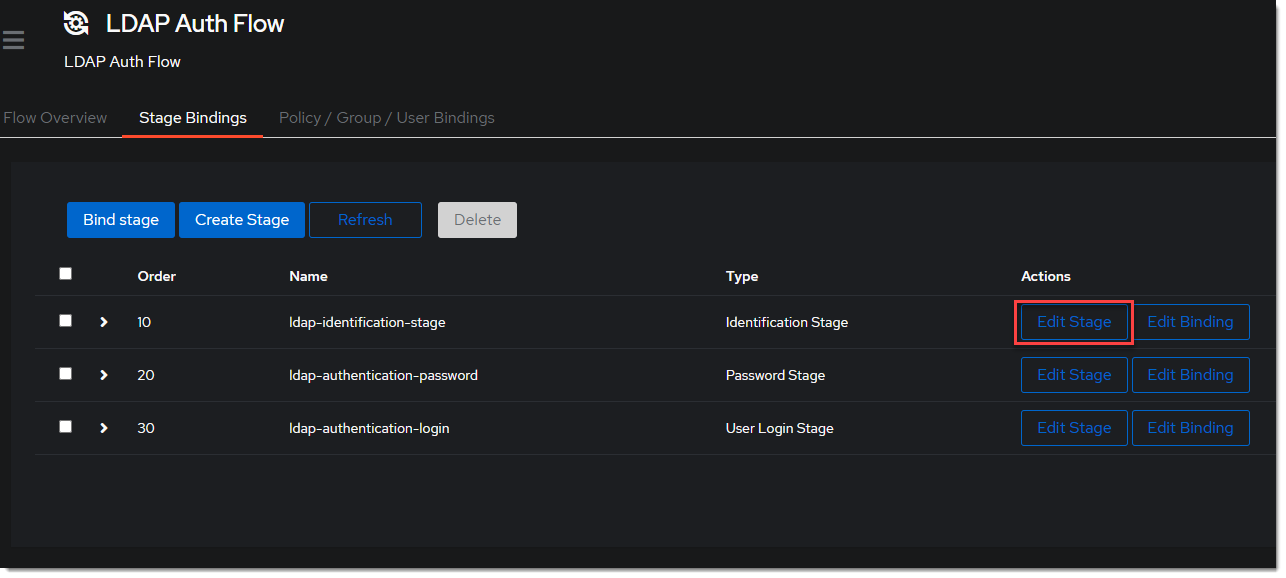
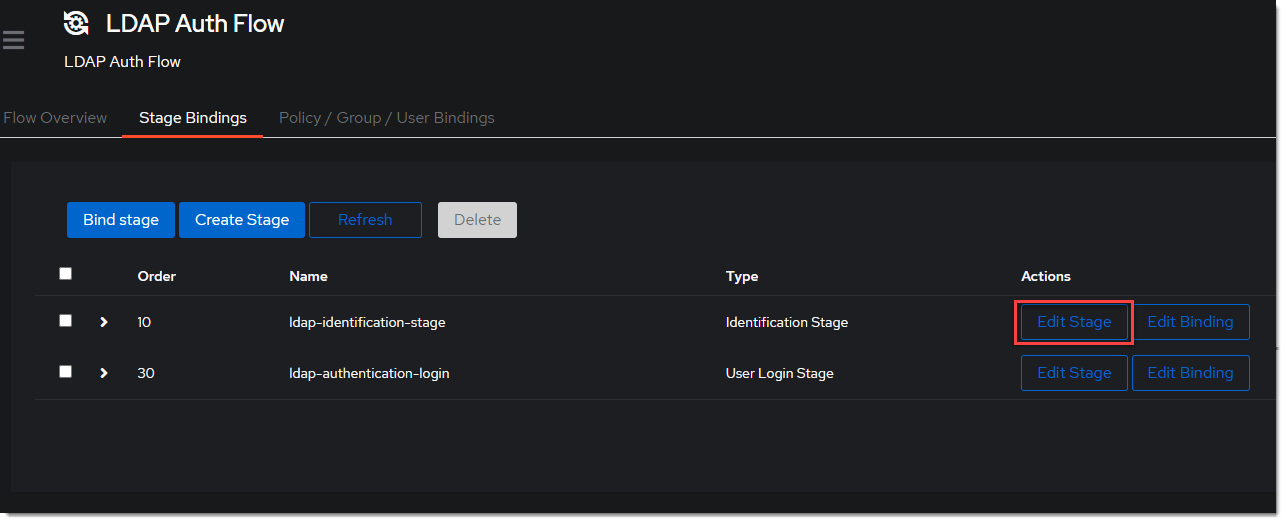
updated stage creation instructions and screenshot

diff --git a/website/docs/providers/ldap/generic_setup.md b/website/docs/providers/ldap/generic_setup.md
@@ -35,13 +35,11 @@ Note: The `default-authentication-flow` can have mult-factor authenticator(s) co
    ![](./general_setup8.png)
 3. Click `Bind Stage` choose `ldap-identification-stage` and set the order to `10`.
    ![](./general_setup9.png)
-4. Click `Bind Stage` choose `ldap-authentication-password` and set the order to `20`.
-   ![](./general_setup10.png)
-5. Click `Bind Stage` choose `ldap-authentication-login` and set the order to `30`.
+4. Click `Bind Stage` choose `ldap-authentication-login` and set the order to `30`.
    ![](./general_setup11.png)
-6. Edit the `ldap-identification-stage`.
+5. Edit the `ldap-identification-stage`.
    ![](./general_setup12.png)
-7. Change the Password stage to `ldap-authentication-password`.
+6. Change the Password stage to `ldap-authentication-password`.
    ![](./general_setup13.png)
 
 ### Create LDAP Provider
